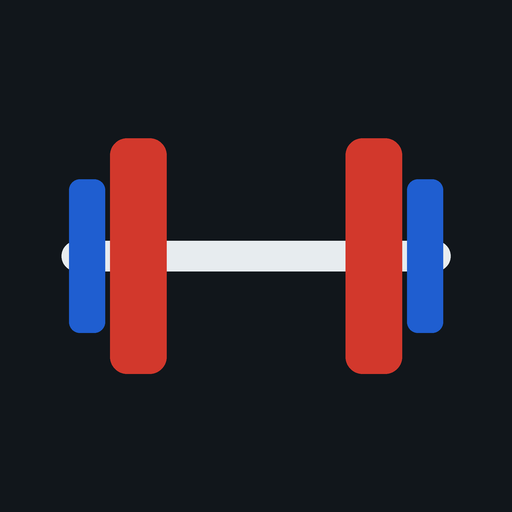
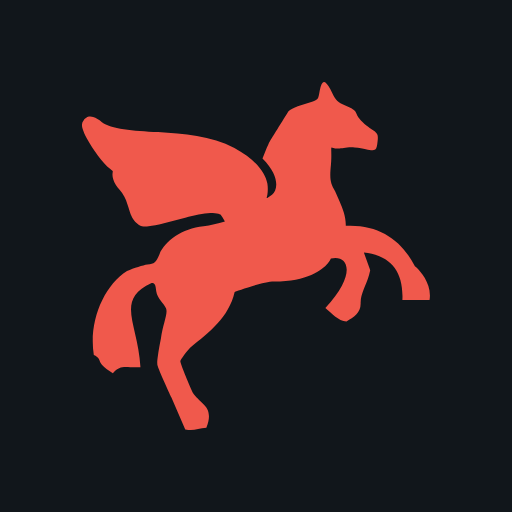
Icona dell'app: Pegaso rosso su fondo scuro
Sostituisce i pesi con il cavallo alato di Pinhead (CC0), nelle misure
180, 192, 512 e 512 adattiva. Service worker alla v15 per aggiornare la cache.

Changed region(s): [[0.125, 0.1562, 0.875, 0.8438]]

diff --git a/sw.js b/sw.js
@@ -1,5 +1,5 @@
 // Offline cache. Bump VERSION on every deploy so phones pick up the new files.
-const VERSION = "v14";
+const VERSION = "v15";
 const CACHE = "huberman-gym-" + VERSION;
 // Exercise photos (img/ex/<id>-0.jpg and -1.jpg): precached so they work offline in the gym.
 const EX = ["legpress","rdl","hack","legext","legcurl","calf","kickback","chestpress","incdb","pecdeck","latpd","row","sapd","cablecrunch","hlr","ohp","lateral","reardelt","inccurl","cablecurl","pushdown","ohext","abwheel","wrist"];

diff --git a/README.md b/README.md
@@ -37,3 +37,4 @@ Ogni volta che segni un giorno come fatto si apre da solo il salvataggio del bac
 - Icone delle attività: [Material Symbols](https://fonts.google.com/icons) di Google, licenza Apache 2.0.
 - Foto degli esercizi: [free-exercise-db](https://github.com/yuhonas/free-exercise-db), dominio pubblico (Unlicense).
 - Icone di Gambe, Torso e Braccia: [Hugeicons](https://hugeicons.com) (versione gratuita), licenza MIT.
+- Icona dell'app: cavallo alato di [Pinhead](https://pinhead.ink) (Quincy Morgan), dominio pubblico (CC0).
